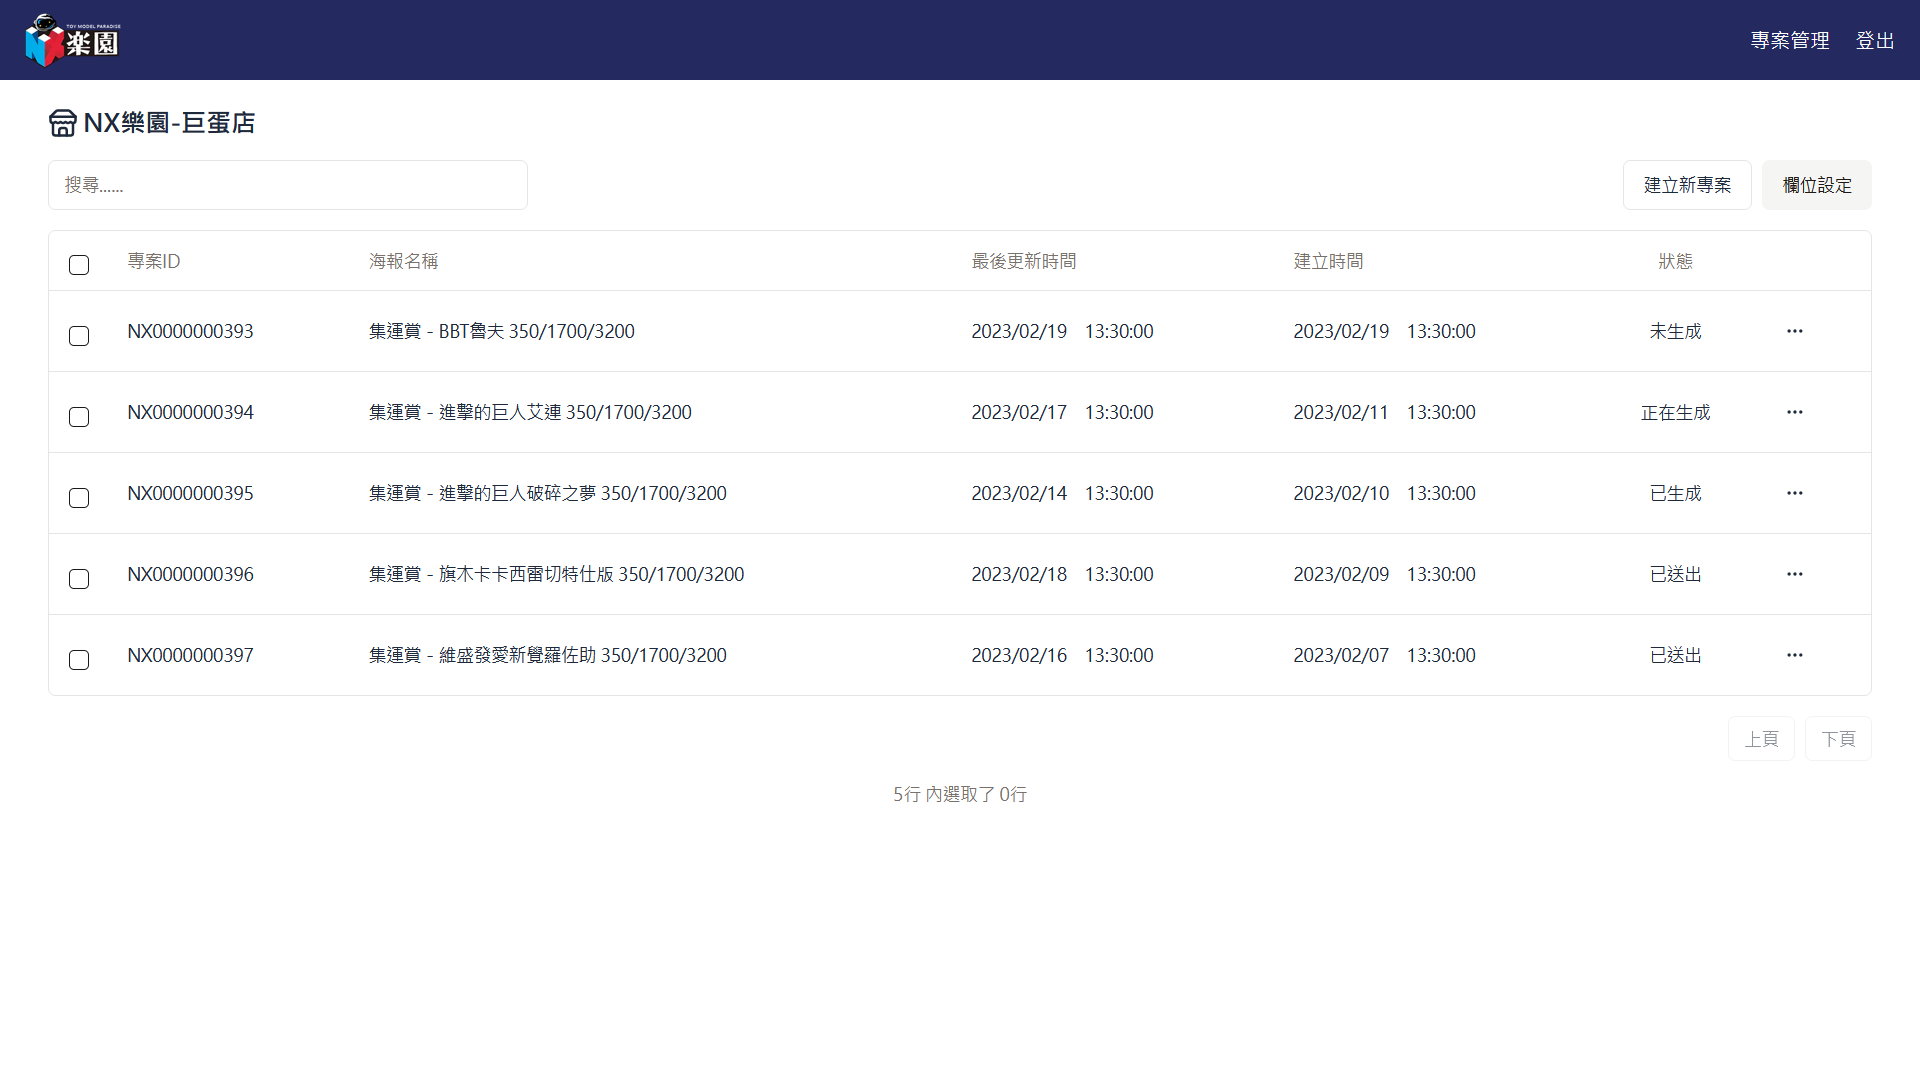
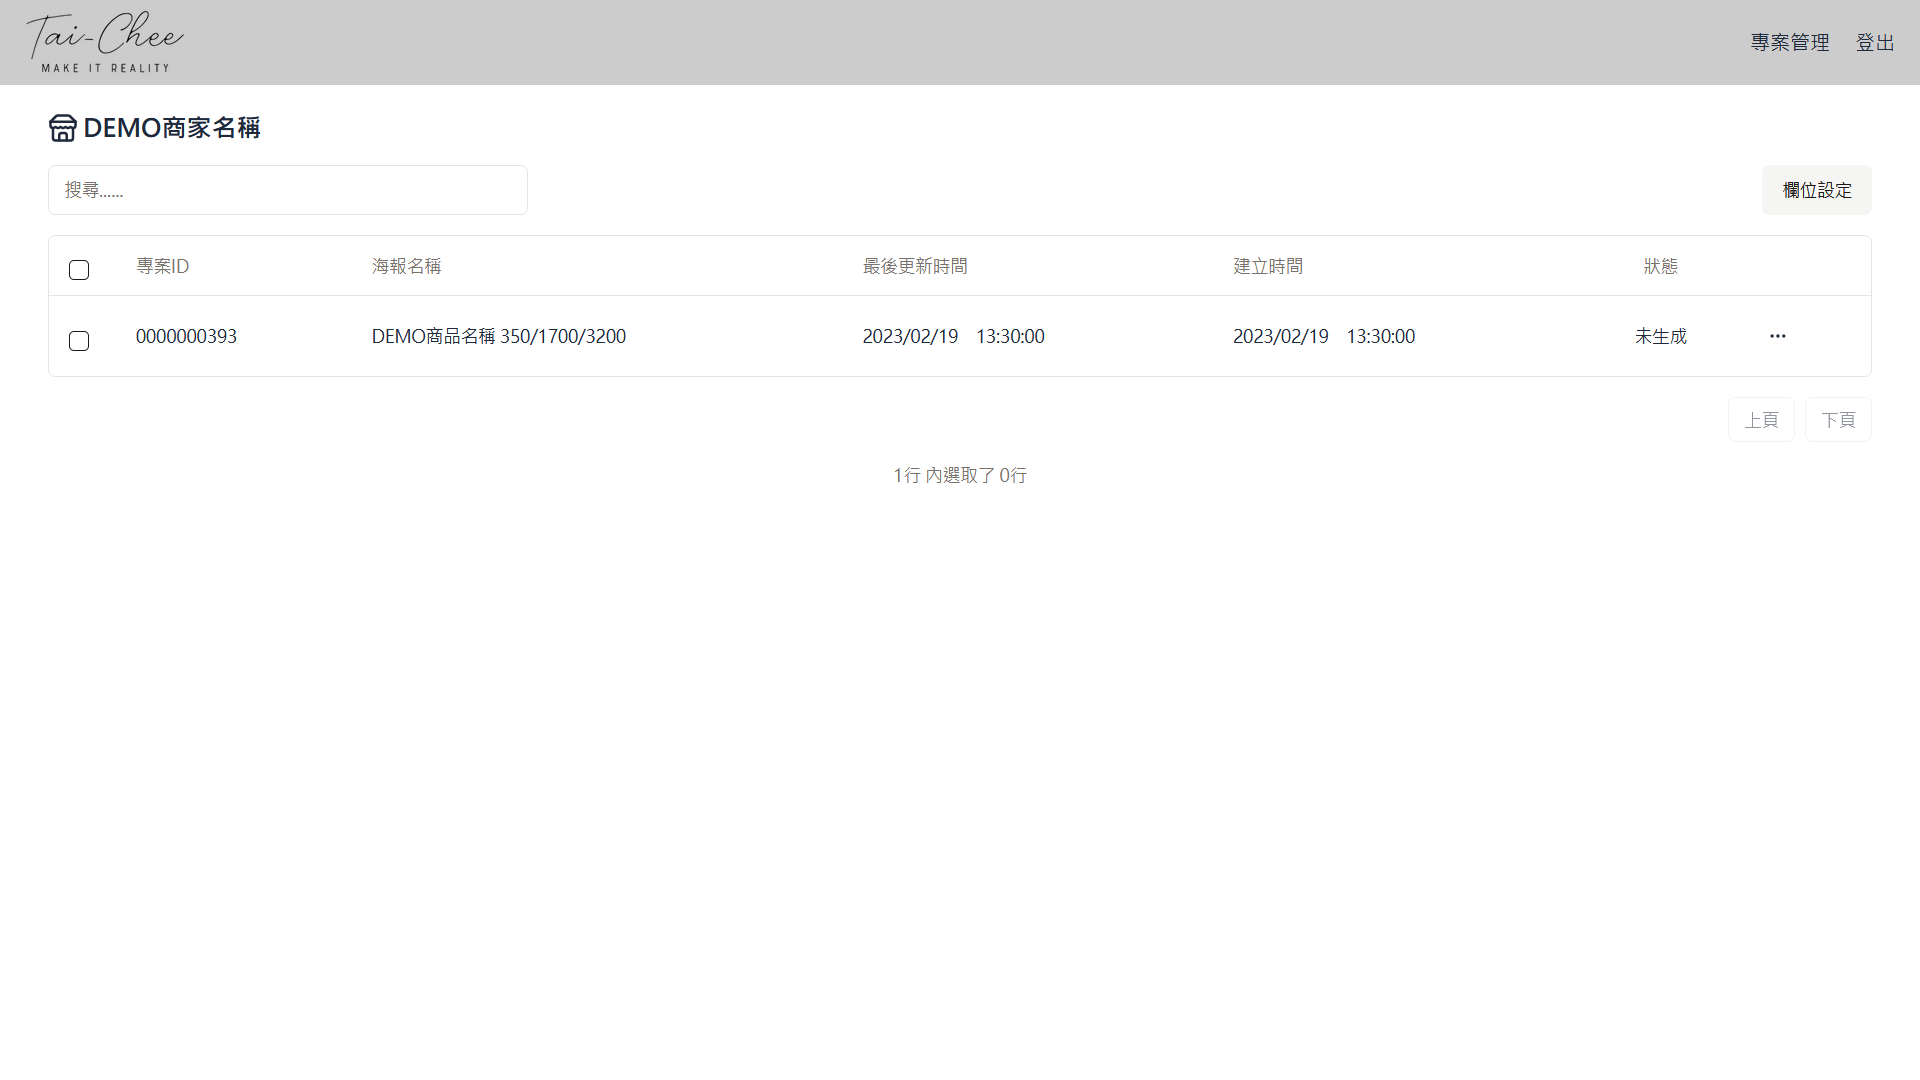
Changed image

diff --git a/lib/data.js b/lib/data.js
@@ -9,7 +9,7 @@ export const portfolio = {
                 "/images/portfolio/poster-generator1.png",
                 "/images/portfolio/poster-generator2.png",
             ],
-            link : "https://nx-poster-generator.vercel.app/projects/NX0000000393",
+            link : "https://poster-generator-demo.vercel.app/projects/1",
             body : `
                 海報生成系統（DEMO版本）。^t
                 　^t
